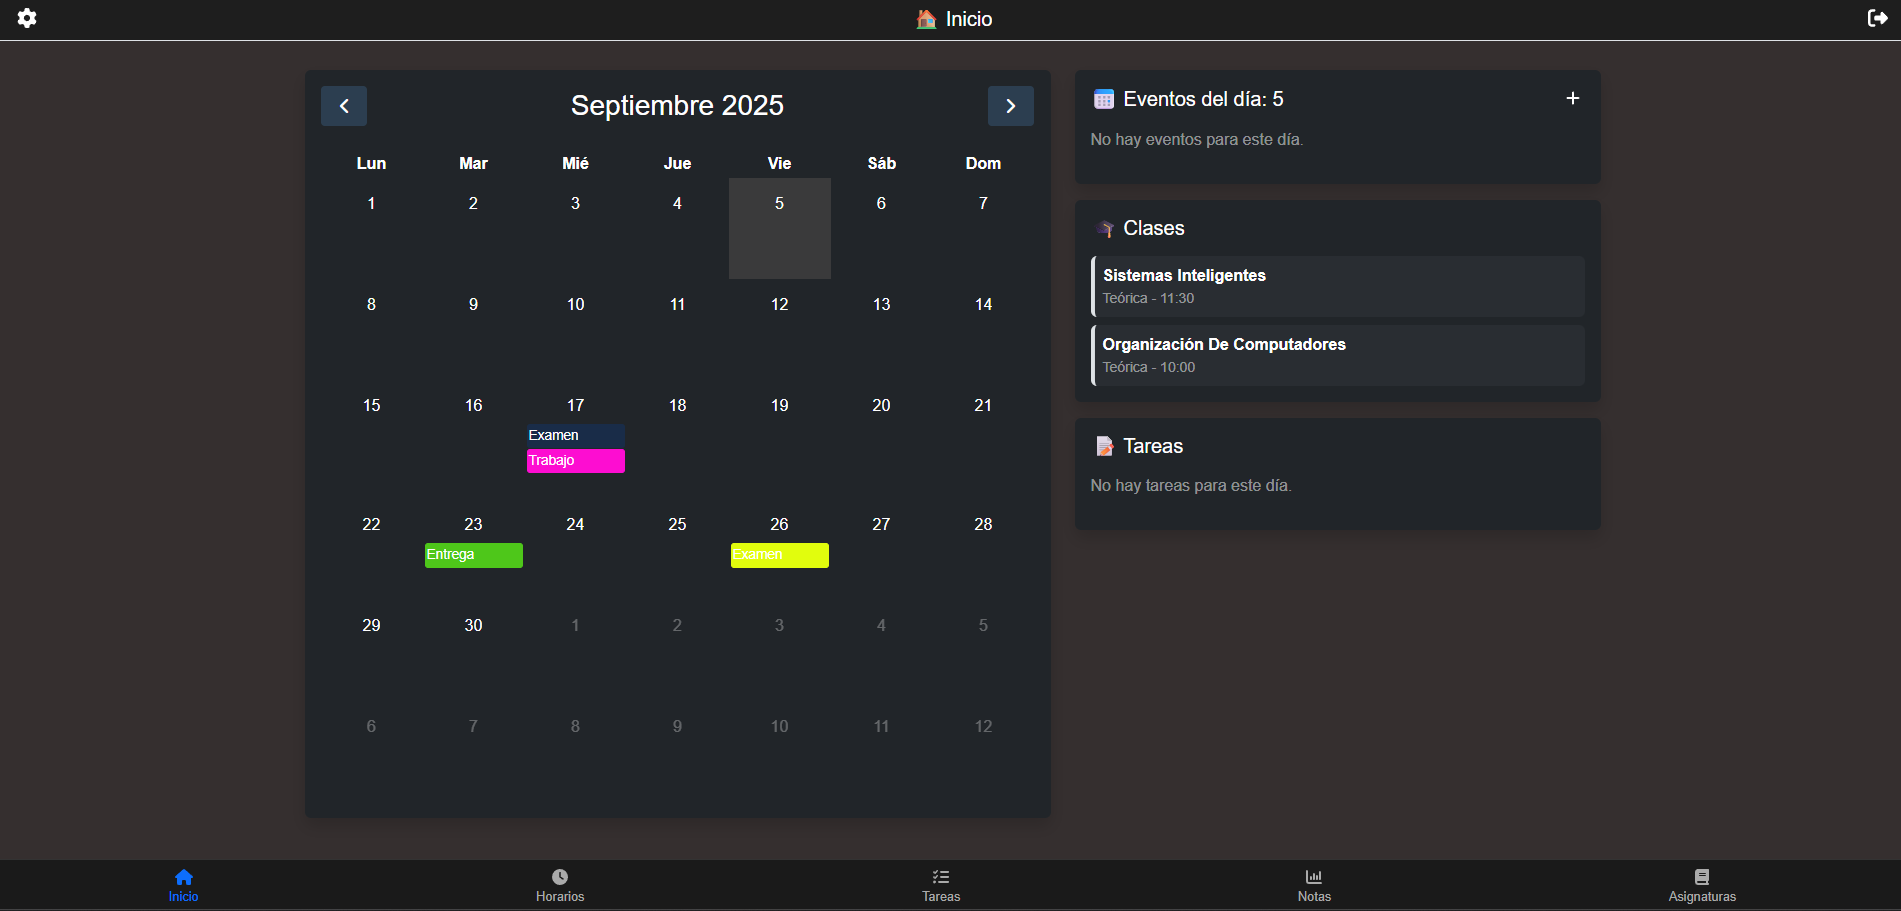
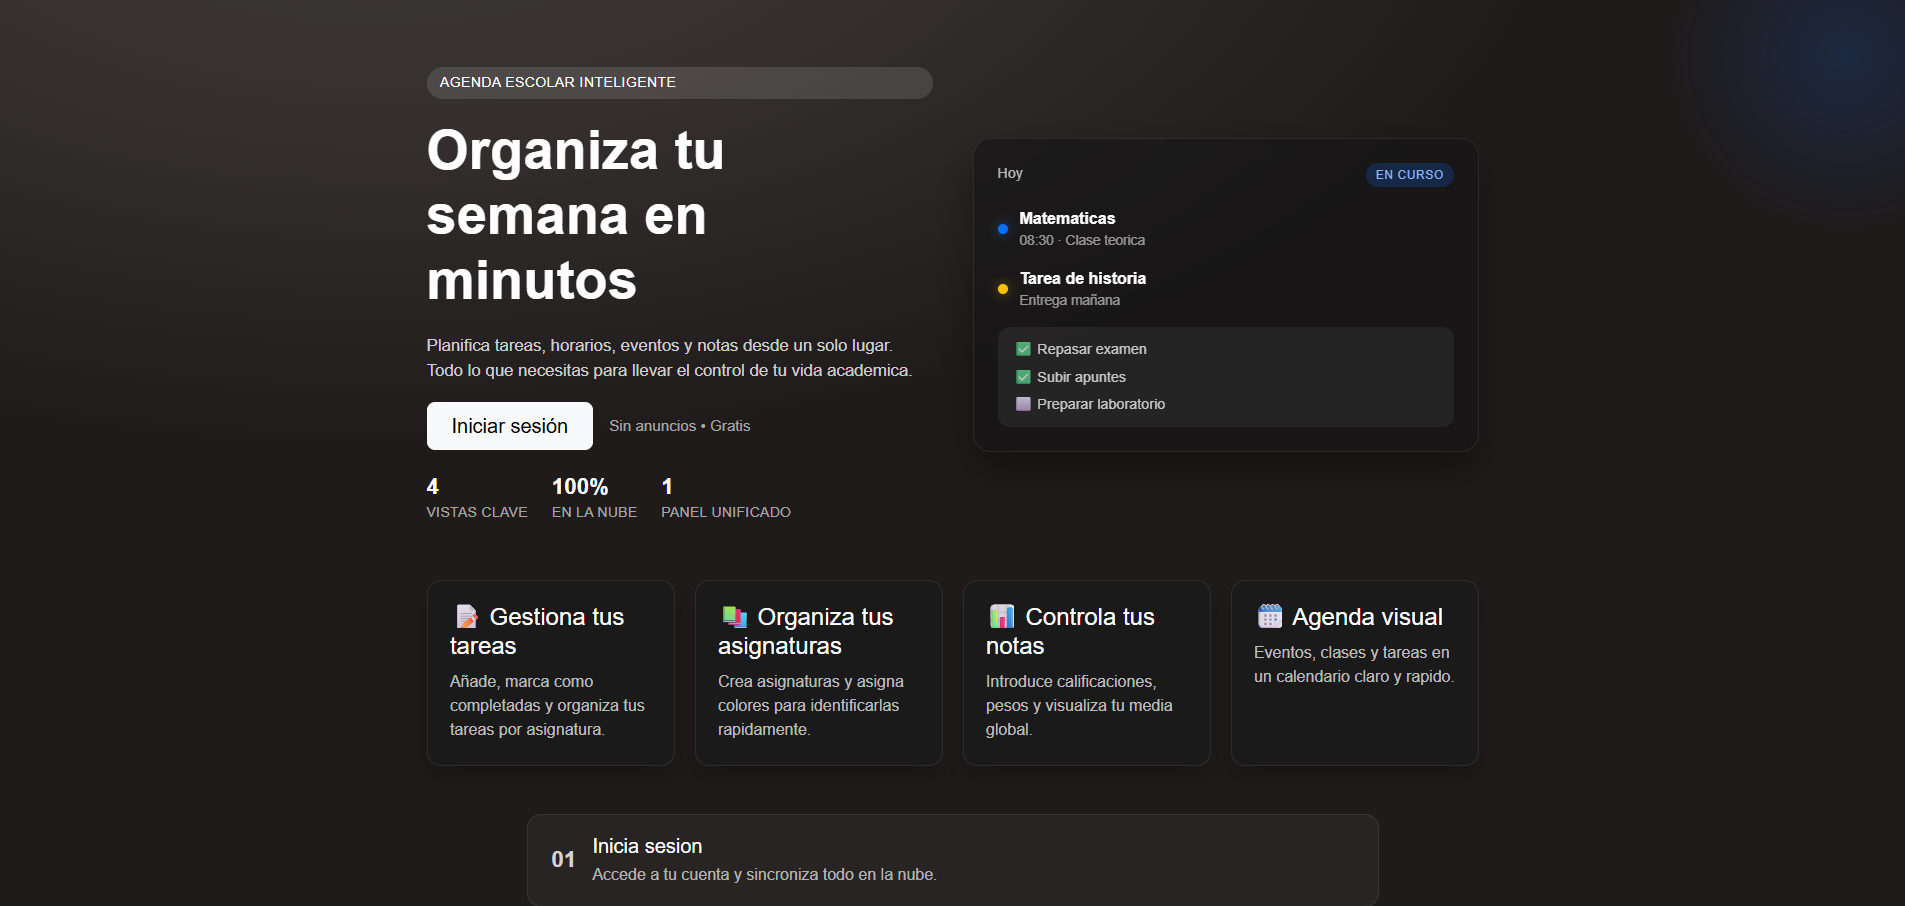
Nuevo proyecto.

diff --git a/index.html b/index.html
@@ -703,6 +703,49 @@
                     <div class="mi-carousel-item">
                         <div class="mi-project-card ticket-sales-container">
                             <div class="banner-image-container">
+                                <img src="images/balance.png" alt="balance" loading="lazy">
+                            </div>
+                            <h5 class="mt-1">Pareja Balance</h5>
+                            
+                            <!-- Tabs -->
+                            <ul class="nav nav-tabs" id="balanceTabs" role="tablist">
+                                <li class="nav-item" role="presentation">
+                                    <button class="nav-link active" id="info-tab" data-bs-toggle="tab" data-bs-target="#info-balance" type="button" role="tab" aria-controls="info" aria-selected="true">Info</button>
+                                </li>
+                                <li class="nav-item" role="presentation">
+                                    <button class="nav-link" id="tech-tab" data-bs-toggle="tab" data-bs-target="#tech-balance" type="button" role="tab" aria-controls="tech" aria-selected="false">Tecnología</button>
+                                </li>
+                                <li class="nav-item" role="presentation">
+                                    <button class="nav-link" id="links-tab" data-bs-toggle="tab" data-bs-target="#links-balance" type="button" role="tab" aria-controls="links" aria-selected="false">Enlaces</button>
+                                </li>
+                            </ul>
+                            
+                            <!-- Contenido de las Tabs -->
+                            <div class="tab-content mt-2" id="balanceTabsContent">
+                                <div class="tab-pane fade show active" id="info-balance" role="tabpanel" aria-labelledby="info-tab">
+                                    <p class="mb-1">Aplicación web progresiva diseñada para gestionar los gastos en pareja.</p>
+                                    <p class="mb-1">2025 - 2026</p>
+                                </div>
+                                <div class="tab-pane fade" id="tech-balance" role="tabpanel" aria-labelledby="tech-tab">
+                                    <p>TypeScript, Next.js, Bootstrap, Firebase (Backend y BBDD), Vercel, PWA.</p>
+                                </div>
+                                <div class="tab-pane fade" id="links-balance" role="tabpanel" aria-labelledby="links-tab">
+                                    <div class="d-flex justify-content-center gap-3 my-4">
+                                        <a href="https://pareja-balance.vercel.app" target="_blank" rel="noopener noreferrer" class="text-black">
+                                            <i class="fa-solid fa-globe fa-1x"> Tour aplicacion</i>
+                                        </a>
+                                    </div>
+                                </div>
+                            </div>
+
+                            <button id="add-to-cart">
+                                <a class="text-decoration-none font-monospace" href="https://github.com/AlejandroRodriguez1998/pareja-balance" target="_blank" rel="noopener noreferrer">Ver proyecto</a>
+                            </button>
+                        </div>
+                    </div>
+                    <div class="mi-carousel-item">
+                        <div class="mi-project-card ticket-sales-container">
+                            <div class="banner-image-container">
                                 <img src="images/agenda.png" alt="agenda" loading="lazy">
                             </div>
                             <h5 class="mt-1">Agenda Académica</h5>
@@ -727,7 +770,7 @@
                                     <p class="mb-1">2025 - 2025</p>
                                 </div>
                                 <div class="tab-pane fade" id="tech-agenda" role="tabpanel" aria-labelledby="tech-tab">
-                                    <p>TypeScript, Next.js, Bootstrap, Supabase (Backend y BBDD), Vercel, PWA.</p>
+                                    <p>TypeScript, Next.js, Bootstrap, Firebase (Backend y BBDD), Vercel, PWA.</p>
                                 </div>
                                 <div class="tab-pane fade" id="links-agenda" role="tabpanel" aria-labelledby="links-tab">
                                     <div class="d-flex justify-content-center gap-3 my-4">
